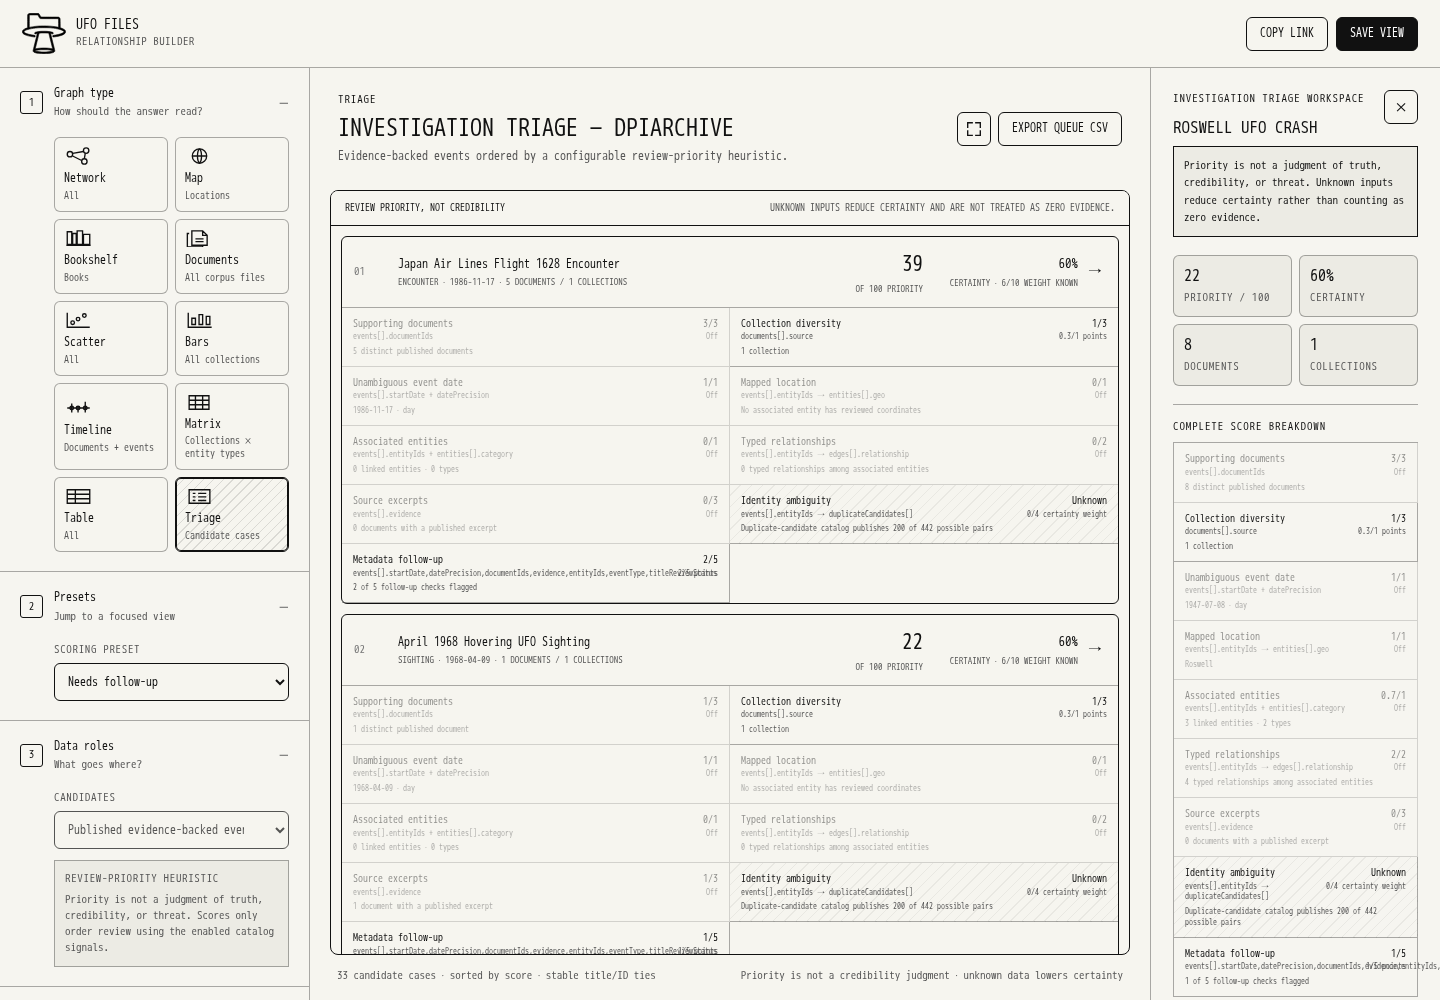
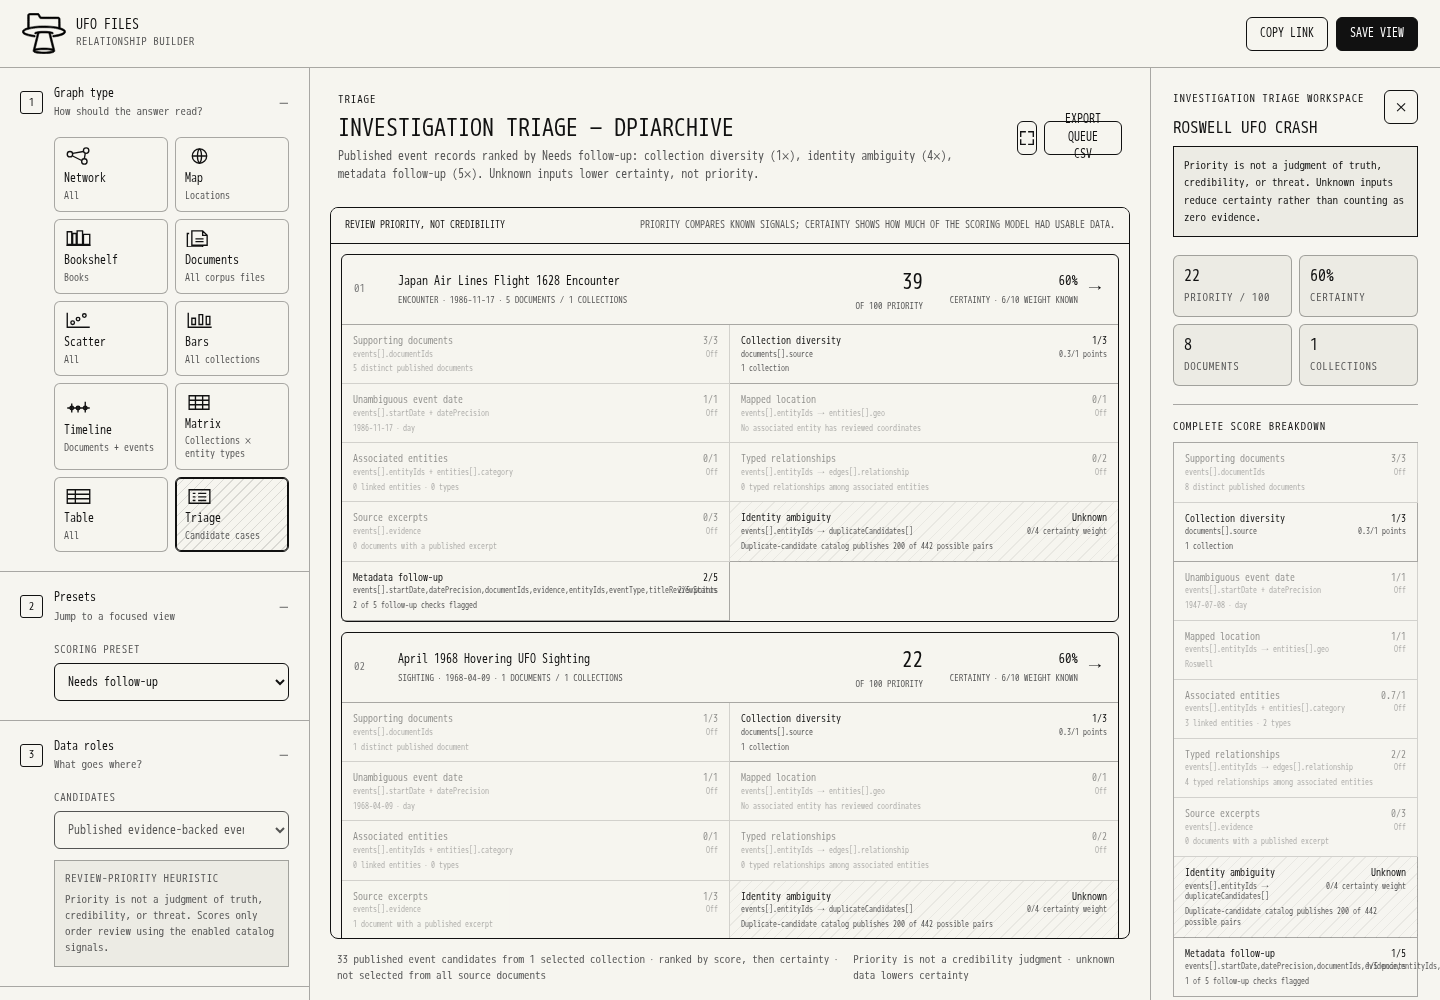
Clarify triage record selection

diff --git a/app.js b/app.js
@@ -461,6 +461,14 @@ function activeTriageProfileId(config = state.config) {
   }) || "custom";
 }
 
+function triageSubtitle(config = state.config) {
+  const profile = TRIAGE_PROFILES[activeTriageProfileId(config)];
+  const signals = TRIAGE_SIGNALS
+    .filter(signal => config.triageSignals?.[signal.id]?.enabled)
+    .map(signal => `${signal.label.toLowerCase()} (${config.triageSignals[signal.id].weight}×)`);
+  return `Published event records ranked by ${profile?.label || "custom"}${signals.length ? `: ${signals.join(", ")}` : ""}. Unknown inputs lower certainty, not priority.`;
+}
+
 function renderPresetControl() {
   if (state.config.type === "triage") {
     const activeId = activeTriageProfileId();
@@ -2006,6 +2014,7 @@ function triageCandidates(catalog = state.catalog, config = state.config) {
       if (leftValue != null && rightValue == null) return -1;
       if (leftValue < rightValue) return -1 * direction;
       if (leftValue > rightValue) return 1 * direction;
+      if (config.triageSort === "score" && left.certainty !== right.certainty) return right.certainty - left.certainty;
       return triageStableCompare(left, right);
     });
 }
@@ -2040,7 +2049,7 @@ function renderTriage() {
     queue.replaceChildren();
     return showEmpty();
   }
-  queue.innerHTML = `<div class="triage-queue-note"><strong>Review priority, not credibility</strong><span>Unknown inputs reduce certainty and are not treated as zero evidence.</span></div><div class="triage-queue">${candidates.map((candidate, index) => `
+  queue.innerHTML = `<div class="triage-queue-note"><strong>Review priority, not credibility</strong><span>Priority compares known signals; certainty shows how much of the scoring model had usable data.</span></div><div class="triage-queue">${candidates.map((candidate, index) => `
     <article class="triage-case">
       <button class="triage-case-open" type="button" data-triage-case="${index}">
         <span class="triage-case-rank">${String(index + 1).padStart(2, "0")}</span>
@@ -2052,7 +2061,8 @@ function renderTriage() {
       <div class="triage-breakdown">${triageBreakdownHTML(candidate)}</div>
     </article>`).join("")}</div>`;
   $$('[data-triage-case]').forEach(button => button.addEventListener("click", () => openTriageCase(candidates[Number(button.dataset.triageCase)])));
-  setSummary(`${candidates.length} candidate cases · sorted by ${label(state.config.triageSort).toLowerCase()} · stable title/ID ties`, "triage");
+  const selectedCollections = state.config.allSources ? "all collections" : `${state.config.sources.length} selected collection${state.config.sources.length === 1 ? "" : "s"}`;
+  setSummary(`${candidates.length} published event candidates from ${selectedCollections} · ranked by ${label(state.config.triageSort).toLowerCase()}${state.config.triageSort === "score" ? ", then certainty" : ""} · not selected from all source documents`, "triage");
 }
 
 function tableRecords() {
@@ -2179,7 +2189,7 @@ function renderGraph() {
     timeline: state.config.timelineRole === "event" ? "Evidence-backed events by occurrence date." : `${state.config.timelineRole === "entity" ? "Entities" : "Documents"} by document date.`,
     matrix: `${state.config.matrixColumns === "entity" ? "Entity" : "Entity-type"} coverage across completed collections.`,
     table: `A custom list of ${state.config.tableRole === "entity" ? "entities" : state.config.tableRole === "document" ? "transcript files" : "collections"}.`,
-    triage: "Evidence-backed events ordered by a configurable review-priority heuristic."
+    triage: triageSubtitle()
   };
   $("#graphSubtitle").textContent = descriptions[state.config.type];
   ({ network: renderNetwork, map: renderMap, book: renderBook, document: renderDocument, scatter: renderScatter, bars: renderBars, timeline: renderTimeline, matrix: renderMatrix, table: renderTable, triage: renderTriage })[state.config.type]();

diff --git a/tests/test_app.js b/tests/test_app.js
@@ -528,6 +528,44 @@ test("triage ordering uses stable title and case-ID tie breakers", () => {
   assert.deepEqual(orders.reversedInput, orders.first);
 });
 
+test("triage priority ties prefer candidates with more known scoring data", () => {
+  const context = vm.createContext({ location: { hash: "" }, URLSearchParams });
+  const source = fs.readFileSync("app.js", "utf8").split("$$('.step-heading')")[0];
+  vm.runInContext(source, context);
+  const order = JSON.parse(vm.runInContext(`
+    (() => {
+      const events = [
+        { id: "sparse", title: "Alpha", eventType: "sighting", startDate: "2000-01-01", datePrecision: "day", titleReviewStatus: "reviewed" },
+        { id: "complete", title: "Zulu", eventType: "sighting", startDate: "2000-01-01", datePrecision: "day", titleReviewStatus: "reviewed", documentIds: ["doc-1", "doc-2", "doc-3"], entityIds: ["person", "place", "agency", "program"], evidence: [{ documentId: "doc-1", excerpt: "One" }, { documentId: "doc-2", excerpt: "Two" }, { documentId: "doc-3", excerpt: "Three" }] }
+      ];
+      const catalog = {
+        documents: [{ id: "doc-1", source: "One" }, { id: "doc-2", source: "Two" }, { id: "doc-3", source: "Three" }],
+        entities: [
+          { id: "person", name: "Person", category: "person" },
+          { id: "place", name: "Place", category: "location", geo: { lat: 1, lon: 1 } },
+          { id: "agency", name: "Agency", category: "government_agency" },
+          { id: "program", name: "Program", category: "program" }
+        ],
+        edges: [{ source: "person", target: "agency", relationship: "affiliated_with" }, { source: "agency", target: "program", relationship: "investigated" }],
+        duplicateCandidates: [], counts: { possibleDuplicates: 0 }, events
+      };
+      return JSON.stringify(triageCandidates(catalog, { ...DEFAULT, type: "triage", triageSort: "score", triageDirection: "desc", triageSignals: triageSignalsForProfile("evidence-rich") }).map(candidate => candidate.event.id));
+    })()
+  `, context));
+  assert.deepEqual(order, ["complete", "sparse"]);
+});
+
+test("triage subtitle explains the candidate pool, active weights, and certainty", () => {
+  const context = vm.createContext({ location: { hash: "" }, URLSearchParams });
+  const source = fs.readFileSync("app.js", "utf8").split("$$('.step-heading')")[0];
+  vm.runInContext(source, context);
+  const subtitle = vm.runInContext('triageSubtitle({ ...DEFAULT, triageSignals: triageSignalsForProfile("evidence-rich") })', context);
+  assert.match(subtitle, /^Published event records ranked by Evidence rich:/);
+  assert.match(subtitle, /supporting documents \(3×\)/);
+  assert.match(subtitle, /source excerpts \(2×\)/);
+  assert.match(subtitle, /Unknown inputs lower certainty, not priority\.$/);
+});
+
 test("triage configuration survives deterministic URL round trips", () => {
   const source = fs.readFileSync("app.js", "utf8").split("$$('.step-heading')")[0];
   const location = { hash: "" };
